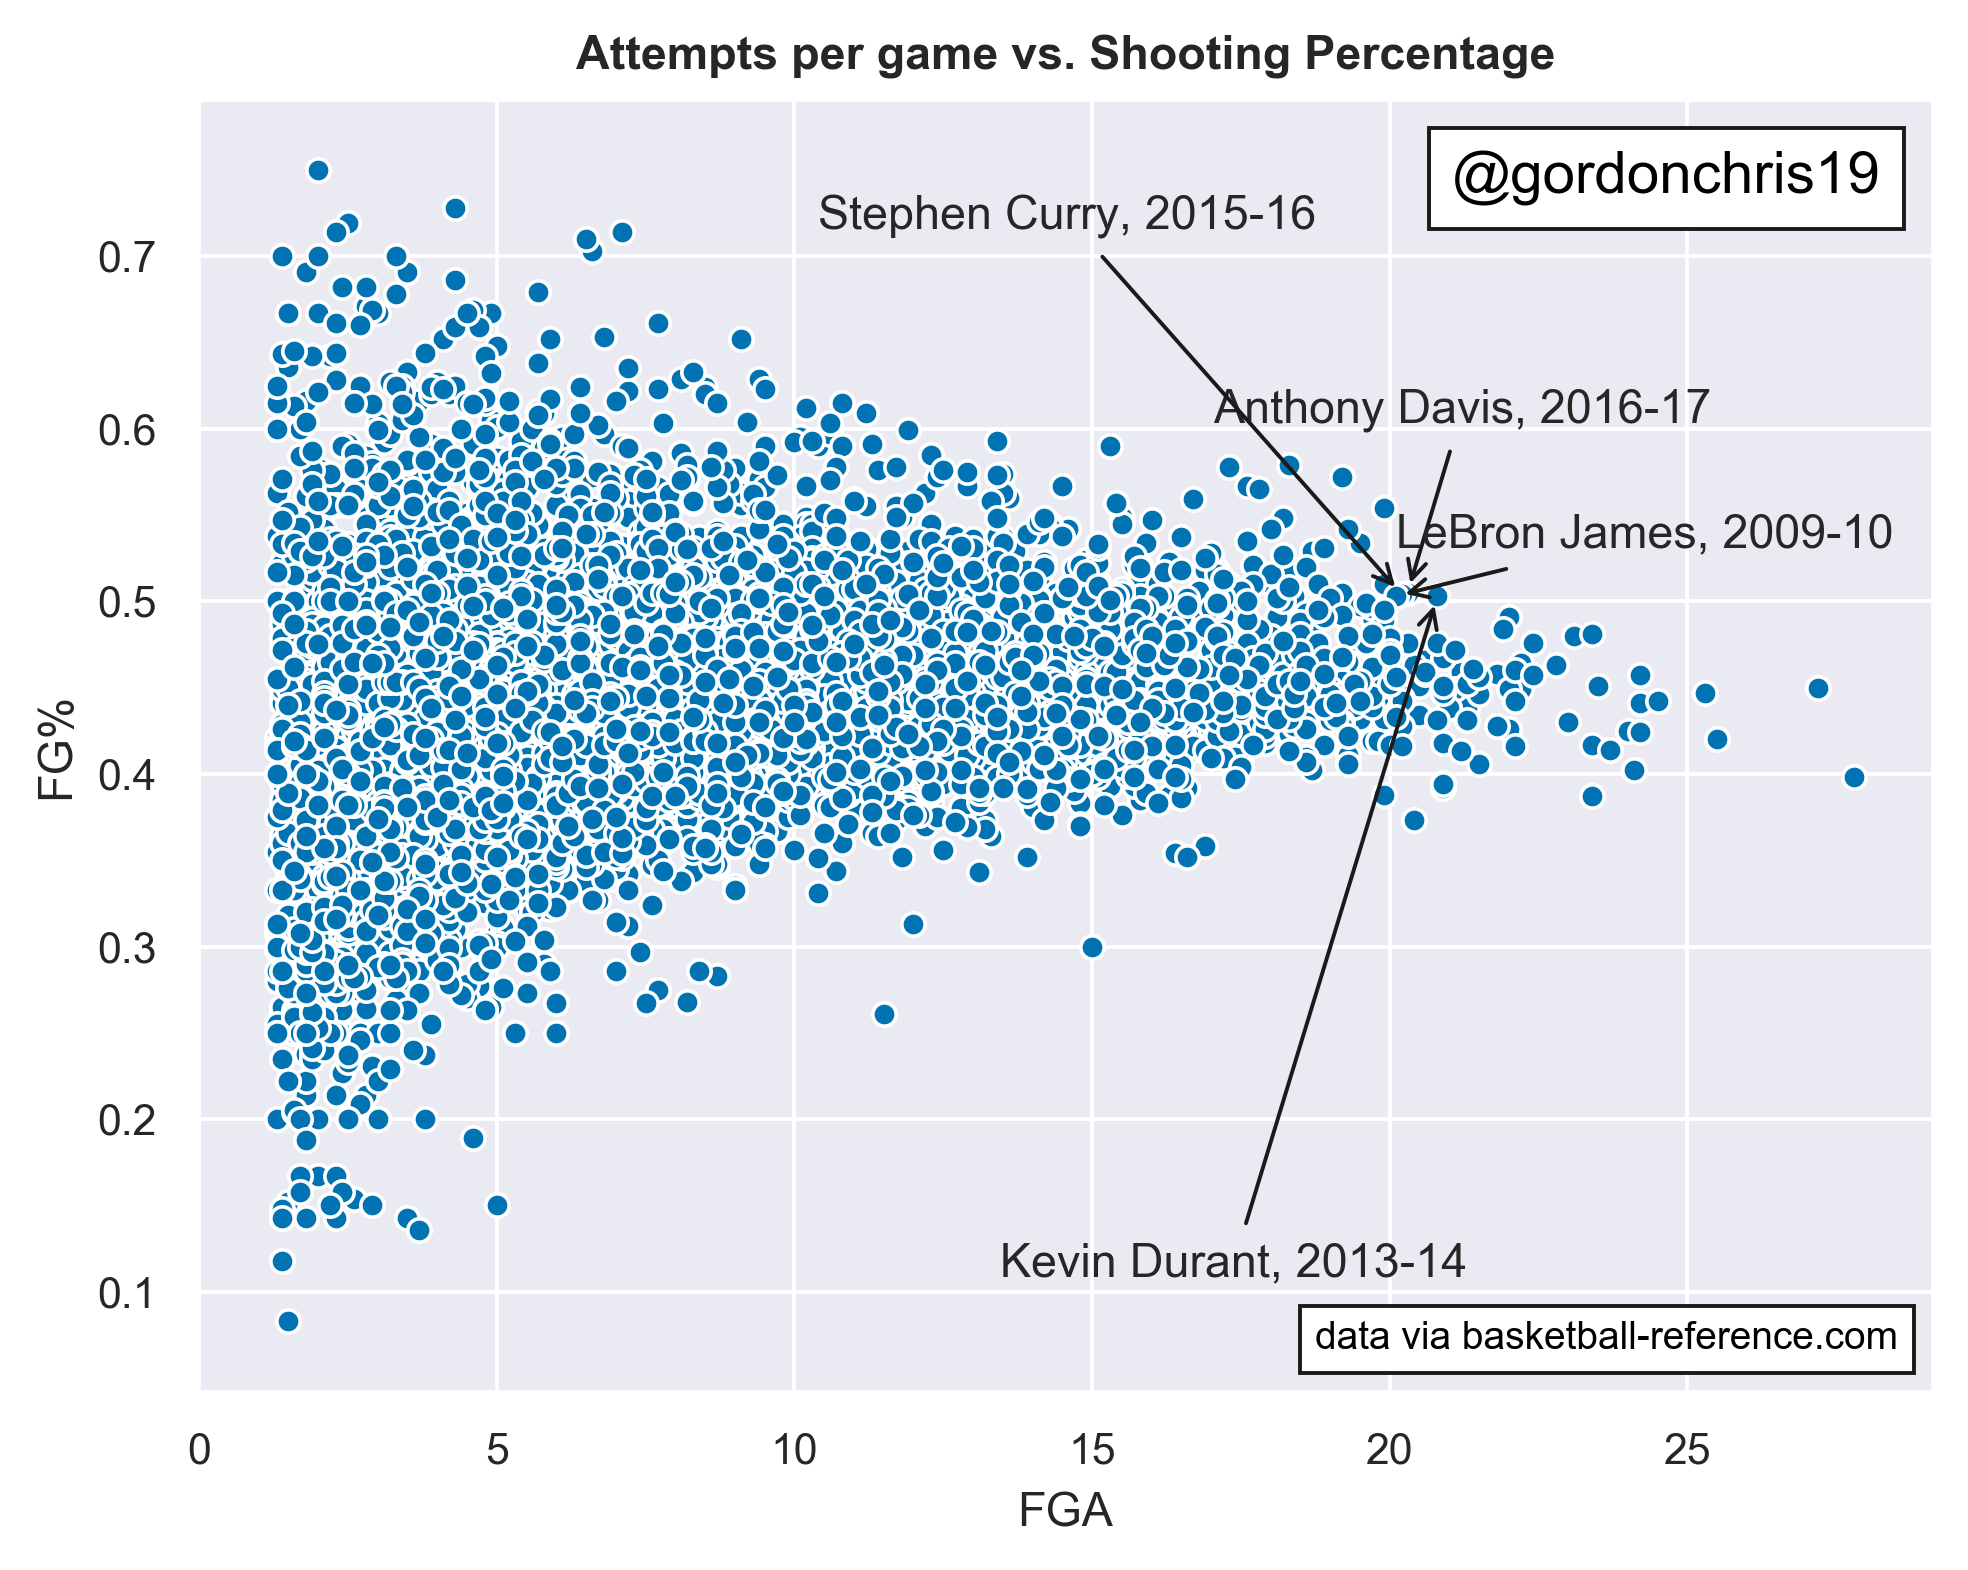
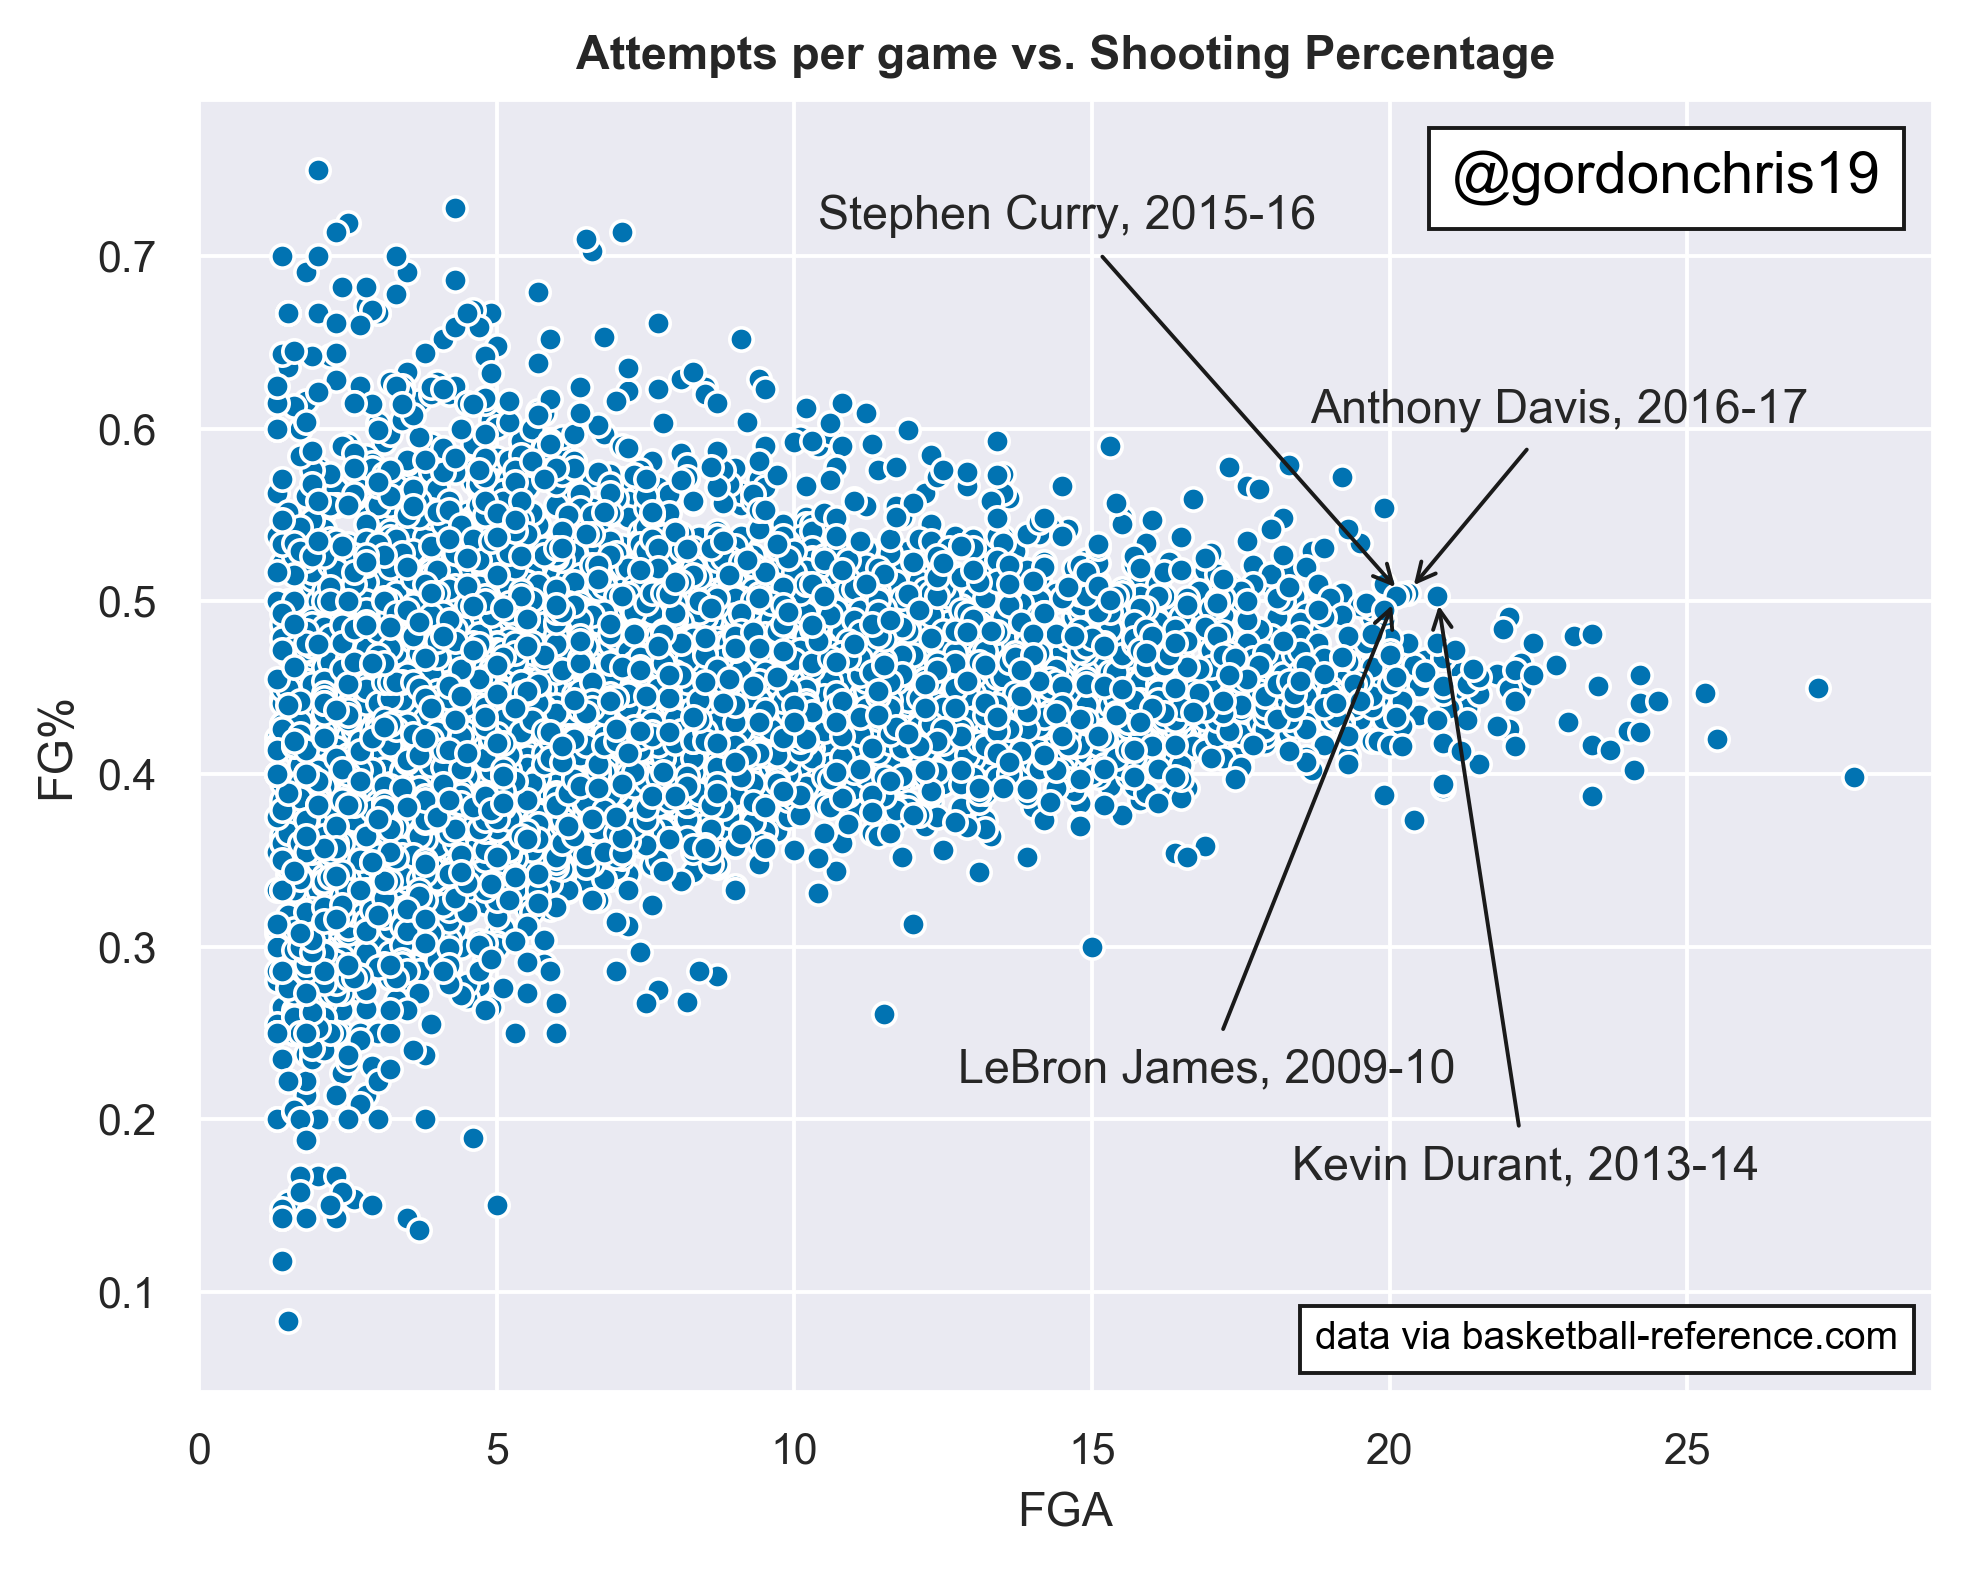
Fixed labels

diff --git a/src/att_v_pct.py b/src/att_v_pct.py
@@ -79,7 +79,7 @@ sns.scatterplot(x='FGA',y='FG%',data=stats,ax=ax3)
 
 offsets = [[(-20,35),(-130,60),(25,10),(-130,30),(-100,-100),(-20,-70)],
 [(-100,-80),(-100,70),(-140,-50),(-150,50)],
-[(-40,35),(-120,75),(-90,-140),(0,10),(-10,-100)]]
+[(-20,35),(-120,75),(-30,-120),(-90,-100),(-10,-100)]]
 
 for ix,ax,s,off in zip([ix1,ix2,ix3],[ax1,ax2,ax3],stype,offsets):
     instances = stats.drop(stats.index[~ix])
